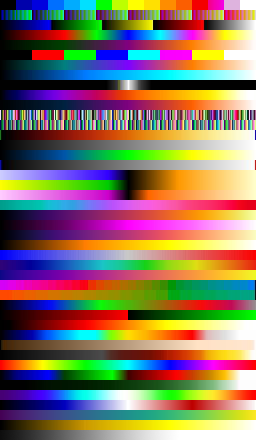
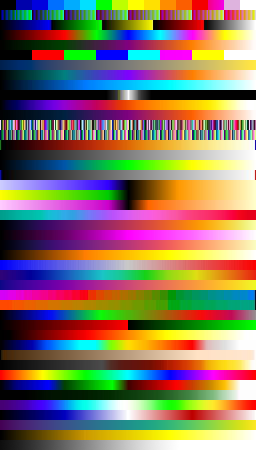
cividis LUT from Nuñez et al 2018

diff --git a/src/main/java/org/openmicroscopy/shoola/util/ui/colourpicker/LookupTableIconUtil.java b/src/main/java/org/openmicroscopy/shoola/util/ui/colourpicker/LookupTableIconUtil.java
@@ -46,16 +46,17 @@ public class LookupTableIconUtil {
      */
     private static String[] LUTS = new String[] { "16_colors.lut",
             "3-3-2_rgb.lut", "5_ramps.lut", "6_shades.lut",
-            "blue_orange_icb.lut", "brgbcmyw.lut", "cool.lut", "cyan_hot.lut",
-            "edges.lut", "fire.lut", "gem.lut", "glasbey.lut",
-            "glasbey_inverted.lut", "glow.lut", "grays.lut",
-            "green_fire_blue.lut", "hilo.lut", "ica.lut", "ica2.lut",
-            "ica3.lut", "ice.lut", "inferno.lut", "magenta_hot.lut",
-            "magma.lut", "orange_hot.lut", "phase.lut", "physics.lut",
-            "plasma.lut", "pup_br.lut", "pup_nr.lut", "rainbow_rgb.lut",
-            "red-green.lut", "red_hot.lut", "royal.lut", "sepia.lut",
-            "smart.lut", "spectrum.lut", "thal.lut", "thallium.lut",
-            "thermal.lut", "unionjack.lut", "viridis.lut", "yellow_hot.lut" };
+            "blue_orange_icb.lut", "brgbcmyw.lut", "cividis.lut",
+            "cool.lut", "cyan_hot.lut", "edges.lut", "fire.lut",
+            "gem.lut", "glasbey.lut", "glasbey_inverted.lut", "glow.lut",
+            "grays.lut", "green_fire_blue.lut", "hilo.lut", "ica.lut",
+            "ica2.lut", "ica3.lut", "ice.lut", "inferno.lut",
+            "magenta_hot.lut", "magma.lut", "orange_hot.lut", "phase.lut",
+            "physics.lut", "plasma.lut", "pup_br.lut", "pup_nr.lut",
+            "rainbow_rgb.lut", "red-green.lut", "red_hot.lut", "royal.lut",
+            "sepia.lut", "smart.lut", "spectrum.lut", "thal.lut",
+            "thallium.lut", "thermal.lut", "unionjack.lut", "viridis.lut",
+            "yellow_hot.lut" };
 
     /**
      * Get the LUT icon for the given LUT filename, scaled to the specified
